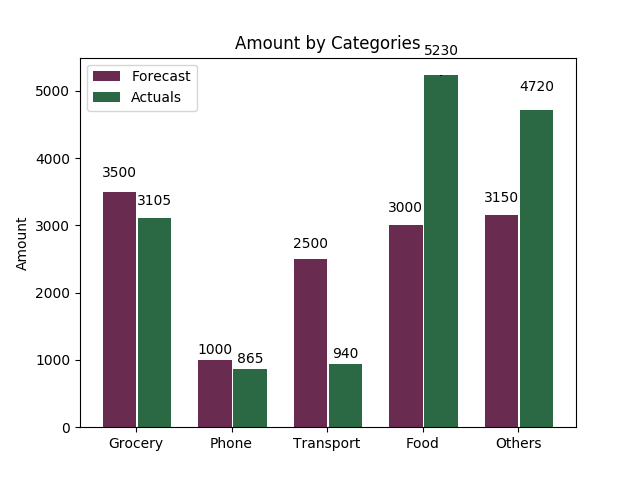
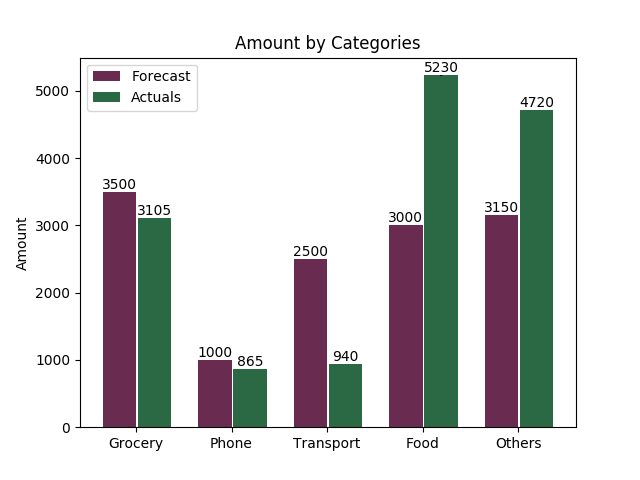
viz2refined

diff --git a/analyzer.py b/analyzer.py
@@ -77,7 +77,7 @@ def Analysis(exp,budget):
 		"""
 		for rect in rects:
 			height = rect.get_height()
-			ax.text(rect.get_x() + rect.get_width()/2., 1.05*height,
+			ax.text(rect.get_x() + rect.get_width()/2., 1*height,
 					'%d' % int(height),
 					ha='center', va='bottom')
 
